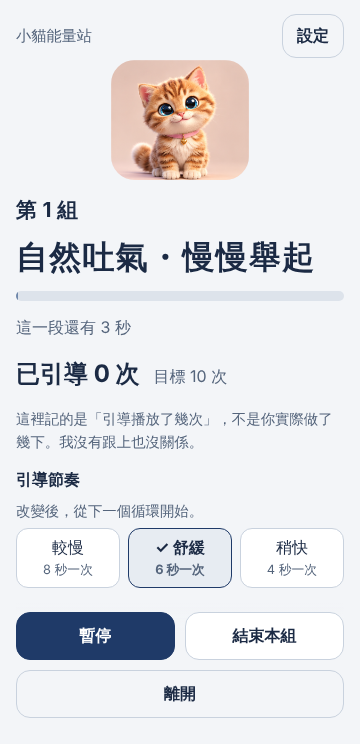
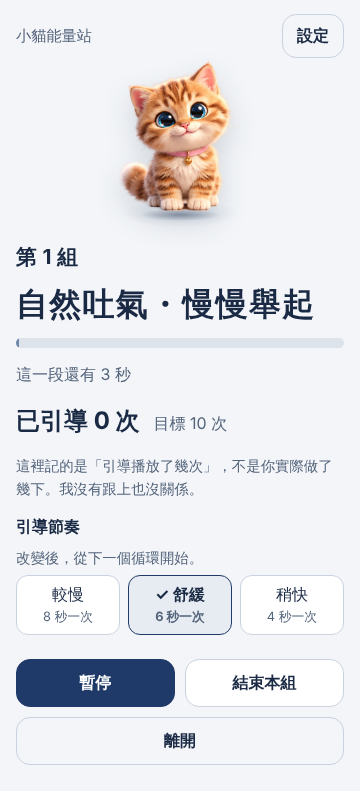
feat(energy-ui): show background-removed cat standing on a soft floor shadow
- Add public/assets/cat/cutout.png (background removed from original.png, no redraw)
- Static floor glow, contact shadow and drop-shadow per theme; no animation
- Fix heading focus being taken on first load under StrictMode
- Refresh UI screenshots; record asset decision

Claude-Session: https://claude.ai/code/session_01Jd1MLeqydxjbdWgjn7akAn

diff --git a/src/features/energy/ui/styles/energy.css b/src/features/energy/ui/styles/energy.css
@@ -12,21 +12,25 @@
   --progress-track: #dde3eb;
   --notice: #e3e9f2;
   --focus: #2f5ea8;
-  --cat-bg: #f1e4e1;
+  --cat-floor: rgb(112 136 171 / 0.22);
+  --cat-contact: rgb(27 42 68 / 0.38);
+  --cat-lift: rgb(27 42 68 / 0.16);
   color-scheme: light;
 }
 @media (prefers-color-scheme: dark) {
   :root:not([data-theme="light"]) {
     --bg: #0f1626; --surface: #172036; --surface-2: #1f2a42; --text: #e6ebf3; --muted: #a3b0c4;
     --line: #2e3b55; --accent: #a9bee0; --accent-text: #0f1626; --progress: #8ea6cc;
-    --progress-track: #26324a; --notice: #1c2840; --focus: #c3d3ee; --cat-bg: #1f2a42;
+    --progress-track: #26324a; --notice: #1c2840; --focus: #c3d3ee;
+    --cat-floor: rgb(169 190 224 / 0.2); --cat-contact: rgb(0 0 0 / 0.55); --cat-lift: rgb(0 0 0 / 0.22);
     color-scheme: dark;
   }
 }
 :root[data-theme="dark"] {
   --bg: #0f1626; --surface: #172036; --surface-2: #1f2a42; --text: #e6ebf3; --muted: #a3b0c4;
   --line: #2e3b55; --accent: #a9bee0; --accent-text: #0f1626; --progress: #8ea6cc;
-  --progress-track: #26324a; --notice: #1c2840; --focus: #c3d3ee; --cat-bg: #1f2a42;
+  --progress-track: #26324a; --notice: #1c2840; --focus: #c3d3ee;
+  --cat-floor: rgb(169 190 224 / 0.2); --cat-contact: rgb(0 0 0 / 0.55); --cat-lift: rgb(0 0 0 / 0.22);
   color-scheme: dark;
 }
 
@@ -86,19 +90,31 @@ body {
 .notice > p + p { margin-top: 6px; }
 .notice--paused { font-weight: 600; }
 
-/* 小貓（靜態，contain 不裁切） */
+/* 小貓：去背靜態圖，站在柔和的地面光暈與接觸陰影上（無動畫、無互動） */
 .cat {
-  margin: 0; width: min(100%, 360px); aspect-ratio: 517 / 450;
-  border-radius: 24px; overflow: hidden; background: var(--cat-bg);
+  position: relative; margin: 0; width: min(100%, 300px); max-width: 100%;
+  padding-bottom: 5%;
 }
-.cat--compact { width: min(60%, 300px); }
-.cat img { display: block; width: 100%; height: 100%; object-fit: contain; }
+.cat::before, .cat::after { content: ""; position: absolute; left: 50%; transform: translateX(-50%); pointer-events: none; }
+.cat::before { /* 地面 */
+  bottom: 0; width: 96%; height: 16%; border-radius: 50%;
+  background: radial-gradient(closest-side, var(--cat-floor), transparent);
+}
+.cat::after { /* 腳下接觸陰影 */
+  bottom: 3.5%; width: 66%; height: 7%; border-radius: 50%;
+  background: radial-gradient(closest-side, var(--cat-contact), transparent);
+}
+.cat img {
+  position: relative; z-index: 1; display: block; width: 100%; height: auto;
+  filter: drop-shadow(0 12px 14px var(--cat-lift));
+}
+.cat--compact { width: min(50%, 240px); }
 @media (max-width: 719px) {
-  .screen--home .cat { width: min(70%, 300px); }
-  .cat--compact { width: min(42%, 180px); }
+  .screen--home .cat { width: min(62%, 260px); }
+  .cat--compact { width: min(38%, 160px); }
 }
 @media (max-height: 560px) and (orientation: landscape) {
-  .cat, .cat--compact { width: 120px; }
+  .cat, .cat--compact { width: 110px; }
 }
 
 /* 引導口令：大字、高對比，遠距可讀 */

diff --git a/src/features/energy/ui/components/CatFigure.tsx b/src/features/energy/ui/components/CatFigure.tsx
@@ -1,12 +1,12 @@
 import { copy } from '../copy';
 
-// 只使用已核准的靜態素材；不生成、不換貓、不做假3D或動畫。
-export const CAT_SRC = '/assets/cat/original.png';
+// 只使用已核准的靜態素材（original.png 去背、未重繪）；不生成、不換貓、不做假3D或動畫。
+export const CAT_SRC = '/assets/cat/cutout.png';
 
 export function CatFigure({ size = 'regular' }: { size?: 'regular' | 'compact' }) {
   return (
     <figure className={`cat cat--${size}`}>
-      <img src={CAT_SRC} alt={copy.catAlt} width={517} height={450} decoding="async" />
+      <img src={CAT_SRC} alt={copy.catAlt} width={361} height={436} decoding="async" />
     </figure>
   );
 }

diff --git a/e2e/ui.spec.ts b/e2e/ui.spec.ts
@@ -11,7 +11,7 @@ test.beforeEach(async ({ page }) => { await page.clock.install(); await page.got
 
 test('首頁→引導→暫停→組完成→休息→到期不自動下一組', async ({ page }) => {
   await expect(page.getByRole('heading', { level: 1, name: '小貓能量站' })).toBeVisible();
-  await expect(page.getByRole('img', { name: /小貓/ })).toHaveAttribute('src', '/assets/cat/original.png');
+  await expect(page.getByRole('img', { name: /小貓/ })).toHaveAttribute('src', '/assets/cat/cutout.png');
   await shot(page, 'home');
   await page.getByRole('button', { name: '開始引導' }).click();
   await expect(page.getByText('自然吐氣・慢慢舉起')).toBeVisible();

diff --git a/src/features/energy/ui/EnergyStation.tsx b/src/features/energy/ui/EnergyStation.tsx
@@ -72,9 +72,11 @@ export function EnergyStation({ runtime }: { runtime?: EnergyRuntimeDependencies
 
   // 換畫面時把焦點移到新畫面的標題；第一次載入不搶焦點。
   const mainRef = useRef<HTMLDivElement>(null);
-  const firstScreen = useRef(true);
+  const shownScreen = useRef(screen);
   useEffect(() => {
-    if (firstScreen.current) { firstScreen.current = false; return; }
+    // 比對上次畫面而非旗標：StrictMode 重跑 effect 時不會誤搶焦點。
+    if (shownScreen.current === screen) return;
+    shownScreen.current = screen;
     mainRef.current?.querySelector<HTMLElement>('[data-screen-heading]')?.focus();
   }, [screen]);
 

diff --git a/docs/DECISIONS.md b/docs/DECISIONS.md
@@ -51,3 +51,7 @@
 - 使用者「我只要你們兩個快點用好」後，Codex已明示並開始Gate1/Gate2協作；main合併/部署保留人工驗收。
 - 正面六視角裁切圖獲本輪實作採用：僅裁掉標籤，無生成或重繪，517×450 PNG。此為核准角色裁切素材，不稱原始照片。覆蓋舊D08/U4素材待定狀態。
 - v0.3四項新增API交叉審查同意；釐清clearSaved會關閉remember、儲存失敗回傳storageError及內部isHidden，見CODEX_CROSS_REVIEW.md。
+
+## 2026-10-22 小貓去背呈現
+- 使用者要求「把小貓去背，呈現像立體站在畫面上」。以 rembg（isnet-general-use）對 public/assets/cat/original.png 去背並裁到主體，存為 public/assets/cat/cutout.png（361×436，透明背景）。只移除背景，未重繪、未生成、未換貓；original.png 保留未動。
+- 立體感只用 CSS 靜態地面光暈、腳下接觸陰影與 drop-shadow；無動畫、無互動、非 3D 模型，符合 PRD §3-8。
